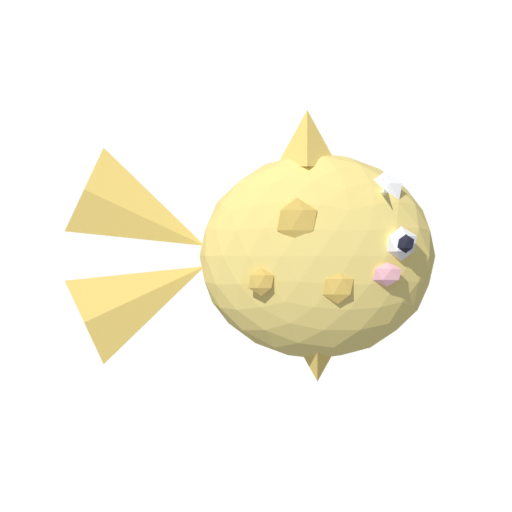
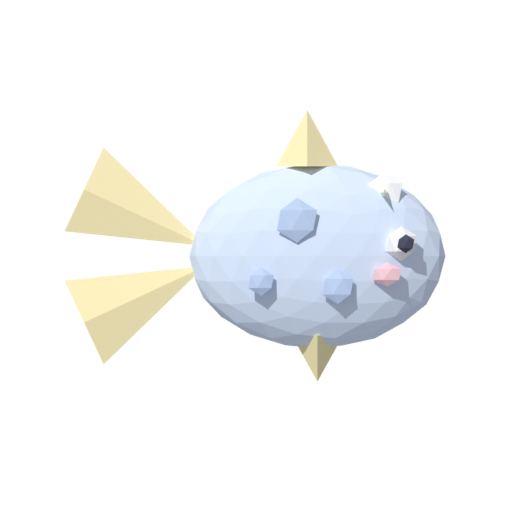
polish: clear vegetation around decor, grayer cloudy sky, distinct moonfish (step 32)

Changed region(s): [[0.125, 0.2188, 0.875, 0.75]]

diff --git a/fishing-game/fish game/Assets/Scripts/HomeDecor.cs b/fishing-game/fish game/Assets/Scripts/HomeDecor.cs
@@ -50,6 +50,9 @@ public class HomeDecor : MonoBehaviour
     AudioSource chimeAudio; AudioClip chimeClip; float chimeTimer;
     Material roofMat, windowMat; Color roofBase, windowBase;
     int shownCabin = -1;
+    readonly bool[] cleared = new bool[Home.ItemCount];
+    // 장식을 사면 그 둘레의 풀·꽃·덤불·바위(섬 소품 "Decor")를 치운다. {x, z, 반폭 x, 반폭 z}
+    static readonly float[][] Clear = { new[] { -9.8f, 2.4f, 0.6f, 0.6f }, new[] { -4.6f, 1.0f, 1.5f, 1.5f }, null, new[] { -7.5f, -1.2f, 1.0f, 1.0f }, new[] { -11.4f, -3.5f, 1.0f, 2.0f } };
 
     [RuntimeInitializeOnLoadMethod(RuntimeInitializeLoadType.AfterSceneLoad)]
     static void Init() { new GameObject("HomeDecor").AddComponent<HomeDecor>(); }
@@ -68,7 +71,11 @@ public class HomeDecor : MonoBehaviour
 
     void Update()
     {
-        for (int i = 0; i < items.Length; i++) if (items[i].activeSelf != Home.Owns(i)) items[i].SetActive(Home.Owns(i));
+        for (int i = 0; i < items.Length; i++)
+        {
+            if (items[i].activeSelf != Home.Owns(i)) items[i].SetActive(Home.Owns(i));
+            if (Home.Owns(i) && !cleared[i]) { cleared[i] = true; ClearNear(i); }
+        }
         if (Home.CabinLevel != shownCabin) ApplyCabin(Home.CabinLevel);
 
         float t = Time.time, night = Mathf.Clamp01(TimeOfDay.Night);
@@ -287,6 +294,18 @@ public class HomeDecor : MonoBehaviour
     }
 
     // ---------------- 공통 ----------------
+    void ClearNear(int item)
+    {
+        var box = Clear[item]; var decor = GameObject.Find("Decor");
+        if (box == null || decor == null) return;
+        foreach (Transform group in decor.transform)
+        {
+            if (group.name == "Beach") continue;   // 해변 조개 등은 그대로
+            foreach (Transform t in group)
+                if (Mathf.Abs(t.position.x - box[0]) < box[2] && Mathf.Abs(t.position.z - box[1]) < box[3]) t.gameObject.SetActive(false);
+        }
+    }
+
     // 블렌더 모델(Resources/Models/<이름>.fbx)을 부모 아래에 놓는다. 없으면 null(임시 도형으로 대신).
     // 재질 이름 "C_RRGGBB"에서 색을 읽어 구름 재질 복사본(Tint)으로 바꾼다(웹 빌드에서 셰이더가 빠지지 않게).
     Transform SpawnModel(string res, Transform parent)

diff --git a/fishing-game/fish game/Assets/Scripts/TimeOfDay.cs b/fishing-game/fish game/Assets/Scripts/TimeOfDay.cs
@@ -93,17 +93,17 @@ public class TimeOfDay : MonoBehaviour
         sun.color = Color.Lerp(a.light, b.light, k);
         sun.intensity = Mathf.Lerp(a.intensity, b.intensity, k) * (1f - 0.5f * o);
         RenderSettings.ambientLight = Color.Lerp(a.ambient, b.ambient, k);
-        RenderSettings.fogColor = Grey(Color.Lerp(a.fog, b.fog, k), o * 0.75f, 1f - 0.12f * o);
+        RenderSettings.fogColor = Grey(Color.Lerp(a.fog, b.fog, k), o * 0.9f, 1f - 0.15f * o);
 
         // 하늘(SkyGradient)과 바다(Sea) 셰이더가 읽는 전역 값
-        Shader.SetGlobalColor("_SkyTop", Grey(Color.Lerp(a.skyTop, b.skyTop, k), o * 0.8f, 1f - 0.1f * o));
+        Shader.SetGlobalColor("_SkyTop", Grey(Color.Lerp(a.skyTop, b.skyTop, k), o * 0.95f, 1f - 0.15f * o));
         Shader.SetGlobalColor("_SkyGlowColor", Color.Lerp(a.glow, b.glow, k));
         Shader.SetGlobalVector("_SunDir", -sun.transform.forward);
         Shader.SetGlobalFloat("_SkyGlow", Mathf.Lerp(a.skyGlow, b.skyGlow, k) * (1f - 0.8f * o));
         Night = Mathf.Lerp(a.stars, b.stars, k);
         Shader.SetGlobalFloat("_Stars", Night);
-        Shader.SetGlobalColor("_SeaShallow", Grey(Color.Lerp(a.seaShallow, b.seaShallow, k), o * 0.5f, 1f - 0.2f * o));
-        Shader.SetGlobalColor("_SeaDeep", Grey(Color.Lerp(a.seaDeep, b.seaDeep, k), o * 0.5f, 1f - 0.2f * o));
+        Shader.SetGlobalColor("_SeaShallow", Grey(Color.Lerp(a.seaShallow, b.seaShallow, k), o * 0.6f, 1f - 0.22f * o));
+        Shader.SetGlobalColor("_SeaDeep", Grey(Color.Lerp(a.seaDeep, b.seaDeep, k), o * 0.6f, 1f - 0.22f * o));
         Shader.SetGlobalColor("_SeaFoam", Color.Lerp(a.seaFoam, b.seaFoam, k));
         Shader.SetGlobalFloat("_SeaGlint", Mathf.Lerp(a.seaGlint, b.seaGlint, k) * (1f - 0.7f * o));
     }

diff --git a/fishing-game/blender/make_fish.py b/fishing-game/blender/make_fish.py
@@ -100,8 +100,8 @@ def jelly():
 # ---------- 11 달빛고기 ----------
 def moonfish():
     clear(); setup(0.0, 5.0, -0.5)
-    body = (1.0, 0.86, 0.38); crater = (0.9, 0.7, 0.25); fin = (1.0, 0.8, 0.3)
-    sphere((0.1, 0, 0), (1.15, 0.5, 1.0), body, 3)
+    body = (0.74, 0.84, 1.0); crater = (0.55, 0.68, 0.92); fin = (1.0, 0.88, 0.5)   # 푸른 은빛 몸 + 노란 초승달 꼬리(복어와 구별)
+    sphere((0.1, 0, 0), (1.25, 0.45, 0.9), body, 3)
     for (x, z, s) in ((-0.1, 0.35, 0.22), (0.3, -0.3, 0.17), (-0.45, -0.25, 0.14)):
         sphere((x, -0.46, z), (s, 0.05, s), crater, 1)
     tail((-1.0, 0, 0.1), 115, 0.45, 1.3, fin)    # 초승달 꼬리 위

diff --git a/fishing-game/docs/GDD.md b/fishing-game/docs/GDD.md
@@ -114,6 +114,7 @@
 - [확정, 사용자 선택 2026-10-14] 아기자기한 이벤트 2가지: ① **갈매기**: 40~90초마다 하늘을 가로질러 날아감(낮·노을에만, 비 오는 날과 밤엔 안 나옴). 날 때 "끼룩" 소리(멀면 작게, 3D). 보기만 하는 장식. ② **떠내려온 병**: 처음엔 2~4분 뒤, 줍고 나면 3~5분 뒤에 해변(반지름 15.3~16.3, 비어 있는 모래밭)에 병이 떠밀려 옴. "해변에 병이 떠밀려 왔어요!" 알림(6초). 한 번에 하나만 있고 줍기 전엔 사라지지 않음. 2.6m 안에서 바라보고 E로 줍기 → 병 속 쪽지 카드(7초, 시간은 안 멈춤, "병 속 쪽지 n/10") + 돈 30~80원(10원 단위 무작위). **쪽지는 10종**(힐링 글귀, 아직 못 읽은 것 중에서 먼저, 다 읽으면 "읽은 쪽지"로 반복). 읽은 쪽지는 저장에 포함. 줍는 소리는 도감 등록 "띠링"을 재사용.
 - [확정, 사용자 선택 2026-10-14] 집 꾸미기(장식 5개 + 오두막 키우기, 목록·가격은 사용자가 "그걸로 ㄱㄱ"로 승인): 바틀이 대화창에서 **F**를 누르면 "집 꾸미기" 창이 열리고(시간 정지 유지), 숫자 키 1~6으로 삼. F/Esc로 닫기. 산 것은 바로 섬에 나타나고 저장됨. 장식(정해진 자리, 임시 도형): ①화분 80원(오두막 문 옆) ②해변 파라솔 100원(오두막 앞 오른쪽) ③풍경 120원(처마, 바람에 흔들리고 10~22초마다 "딩" 소리, 3D) ④모닥불 150원(오두막 앞, 불꽃 파티클+밤엔 불빛이 더 밝음) ⑤해먹 200원(오두막 서쪽, 기둥 두 개 사이, 살랑거림). 오두막 키우기(⑥): 1단계 낡은 오두막(지금) → 2단계 튼튼한 오두막 300원(새 지붕 색 청록, 굴뚝+연기) → 3단계 예쁜 오두막 800원(지붕 깃발, 문 옆 등불, 밤에 등불·창문 불빛). 바틀이 대화창 안내 칸은 4개로 늘고 글자를 줄임("왼쪽 클릭|팔기", "오른쪽 클릭|낚싯대 n원", "F|꾸미기", "E / Esc|닫기"). 블렌더 모델은 나중에(임시 도형).
 - [확정, 사용자 선택 2026-10-14] 사진 찍기: **P키**. **깨끗한 사진**(사용자 선택): 상태창·안내·십자선 같은 화면 글자는 빼고 풍경(낚싯대 포함)만 찍음. 찰칵 소리 + 하얀 번쩍임(0.4초) + "사진을 저장했어요!"(3초). 웹은 브라우저 다운로드(`낚시섬_날짜_시간.png`, 브라우저가 다운로드 허용을 물을 수 있음), PC는 내 사진 폴더의 "낚시섬"에 저장. 대화창·상점·꾸미기·도감이 열려 있거나 커서가 풀려 있으면 안 찍히고, 연속 촬영은 1.2초 간격. 안내 글자에 "P 사진" 추가.
+- [확정, 사용자 "이어서 진행" 2026-10-15; 다듬기는 내가 직접 거슬린 점만 먼저 손봄] 다듬기 ①: (가) 장식(화분·파라솔·모닥불·해먹)을 사면 그 둘레의 풀·꽃·덤불·바위(섬 소품 Decor, 해변 제외)를 치움 — 장식 밖으로 풀이 삐져나오던 것. (나) 흐림·비의 회색빛을 더 짙게(하늘 0.8→0.95, 안개 0.75→0.9, 바다 0.5→0.6). (다) 달빛고기를 푸른 은빛 몸+노란 초승달 꼬리로 다시 그려 복어(노란 둥근 몸)와 구별. 사용자가 플레이하며 거슬린 점(가격·확률·크기 범위·소리 크기 등)을 알려 주면 그때 이어서 조정.
 - [확정] 대화창 다시 디자인 (사용자 요청 2026-10-13 "대화창 인터페이스가 짜치다, 이름이랑 대화랑 구분이 명확하면 좋겠다", 진행은 "플레이 해봤는데 잘 돼 다음 단계"): 바틀이·끼룩이·모카·돌쇠 대화창을 같은 틀로 바꿈. ① **이름표**: 말풍선 판 왼쪽 위에 걸친 색깔 둥근 이름표(캐릭터마다 색: 바틀이 주황, 끼룩이 하늘색, 모카 분홍, 돌쇠 초록). ② **대사**: 크림색 둥근 판 안에 큼직한 글자(약 28)로 대사만. ③ **정보 칸**(상점 NPC만): 대사 아래 한 단계 짙은 크림색 칸에 가진 물고기·합계(·낚싯대 줄)를 따로 보여줌. ④ **키 안내 줄**: 맨 아래에 `[키] 설명` 모양의 알약 버튼(예: [왼쪽 클릭] 모두 팔기, [오른쪽 클릭] 튼튼한 낚싯대 200원, [E / Esc] 닫기). 말투·내용·판매·구매 규칙은 그대로, 보이는 모양만 바꿈. 위치는 이전처럼 화면 아래 가운데.
 - [확정] 화면 중앙 작은 조준점, 입질 시 찌 위 느낌표, Tab으로 도감.
 - [확정] 상태창 (사용자 요청 2026-10-13 "글자가 크고 가독성이 떨어짐 / 좌측 하단에 상태창처럼 몰아서 / 아이콘도"): 시간대·미끼·소지금을 화면 왼쪽 아래 어두운 반투명 둥근 판 하나에 줄로 모아 보여줌. 줄마다 `아이콘 + 글자`(시간대: 해/노을/달, 미끼: 지렁이/새우/빵 + 키 안내 1·2·3, 소지금: 동전 + n원). 글자는 작게(약 26) 크림색 굵게 + 짙은 외곽선·그림자. 아이콘은 이미지 파일 없이 코드로 그린 단순한 납작한 그림. 이전의 따로 흩어진 시간대·미끼·소지금 글자는 없앰. "소리 꺼짐 (M)"은 오른쪽 아래에 그대로. 도감·대화창·릴 화면은 그대로.

diff --git a/fishing-game/review/2026-10-15_step32_polish.md b/fishing-game/review/2026-10-15_step32_polish.md
@@ -1,0 +1,14 @@
+# 검수: 32단계 다듬기 ① (2026-10-15)
+
+판정: **통과** (겉모습은 사용자 플레이로 확인 필요)
+
+## 확인한 것
+- GDD 9번 "다듬기 ①" [확정]과 일치: (가) 장식 둘레 풀·꽃·덤불·바위 치움(해변 제외), (나) 흐림·비 회색 짙게(하늘 0.95, 안개 0.9, 바다 0.6), (다) 달빛고기 재디자인.
+- HomeDecor.ClearNear: Clear 배열 순서가 항목 순서(0 화분, 1 파라솔, 2 풍경=null, 3 모닥불, 4 해먹)와 같고, 칸 중심이 Item() 좌표와 정확히 같음. cleared[]로 항목당 1번만 실행(저장 불러오기로 이미 가진 경우도 첫 Update에서 처리). Find("Decor") 없으면 조용히 끝남(null 안전). "Decor_화분" 등 자기 오브젝트는 이름이 달라 안 걸림. Beach 건너뜀, SetActive(false)만 하고 삭제 없음. 월드 x/z 기준 비교. 다른 곳에서 "Decor"를 읽는 건 WindSway뿐이고 꺼진 자식도 회전만 계산할 뿐 문제없음. 고양이·NPC·다른 시스템 영향 없음.
+- TimeOfDay: Grey(c, amount, dim)는 amount=0, dim=1이면 원색 그대로 -> 맑은 날(o=0)은 이전과 완전히 같음. 상수만 바뀜(구름 있을 때만 영향).
+- 달빛고기: 푸른 은빛 납작 몸 + 노란 초승달 꼬리로 복어(노란 둥근 몸+가시)와 확실히 구별됨. PNG만 바뀌었고 .meta 변경 없음(스프라이트 설정 유지).
+- 스크린샷: home_front_day에서 장식 둘레가 깨끗함, w_rain_day는 회색 하늘·바다가 자연스러움.
+
+## 참고(반려 사유 아님)
+- 치운 풀은 되돌리지 않음(장식은 되팔기 없음이라 문제 없음).
+- 상자 크기는 눈대중 값이라 플레이하며 풀이 남거나 너무 지워지면 알려 주세요.

diff --git a/fishing-game/changelog/2026-10-12.md b/fishing-game/changelog/2026-10-12.md
@@ -878,3 +878,8 @@
 - 왜: 사용자가 다음 단계로 사진 찍기를 골랐고, 화면 글자 없는 "깨끗한 사진"(1번)으로 정함.
 - 시험: 편집기 배치 모드에서 저장 단계(폴더 만들기·한글 파일 이름·PNG 쓰기)가 통과(시험 파일은 삭제). 찍기 단계(`WaitForEndOfFrame`)는 배치 모드에서 프레임 끝 신호가 안 와서 시험 불가 → 일반적인 방식이지만 실제 플레이로 확인 필요. 웹 빌드 안에 `FG_DownloadPng`가 들어간 것은 확인함.
 
+## 32단계 — 다듬기 ① (풀 치우기·흐린 날·달빛고기 색)
+- 무엇: `HomeDecor.ClearNear`(장식을 사면 둘레의 Decor 소품 숨김), `TimeOfDay`의 회색빛 값 상향, `blender/make_fish.py` 달빛고기 색·몸 모양 수정 → `Assets/Fish/Fish_11_Moonfish.png` 교체.
+- 왜: 사용자가 다음 단계로 "이어서 진행"(내가 추천한 다듬기)을 골랐고, 사용자가 짚은 점이 없어서 내가 직접 눈에 띈 것(검수에서도 나온 참고 사항 3개)만 고침.
+- 메모: 유니티 편집기가 열려 있으면 배치 모드 확인·빌드가 안 되어(한 프로젝트는 한 곳에서만) 사용자가 편집기를 닫아 줌. 가격·확률·크기 범위·소리 크기는 사용자 의견이 있을 때 조정.
+
